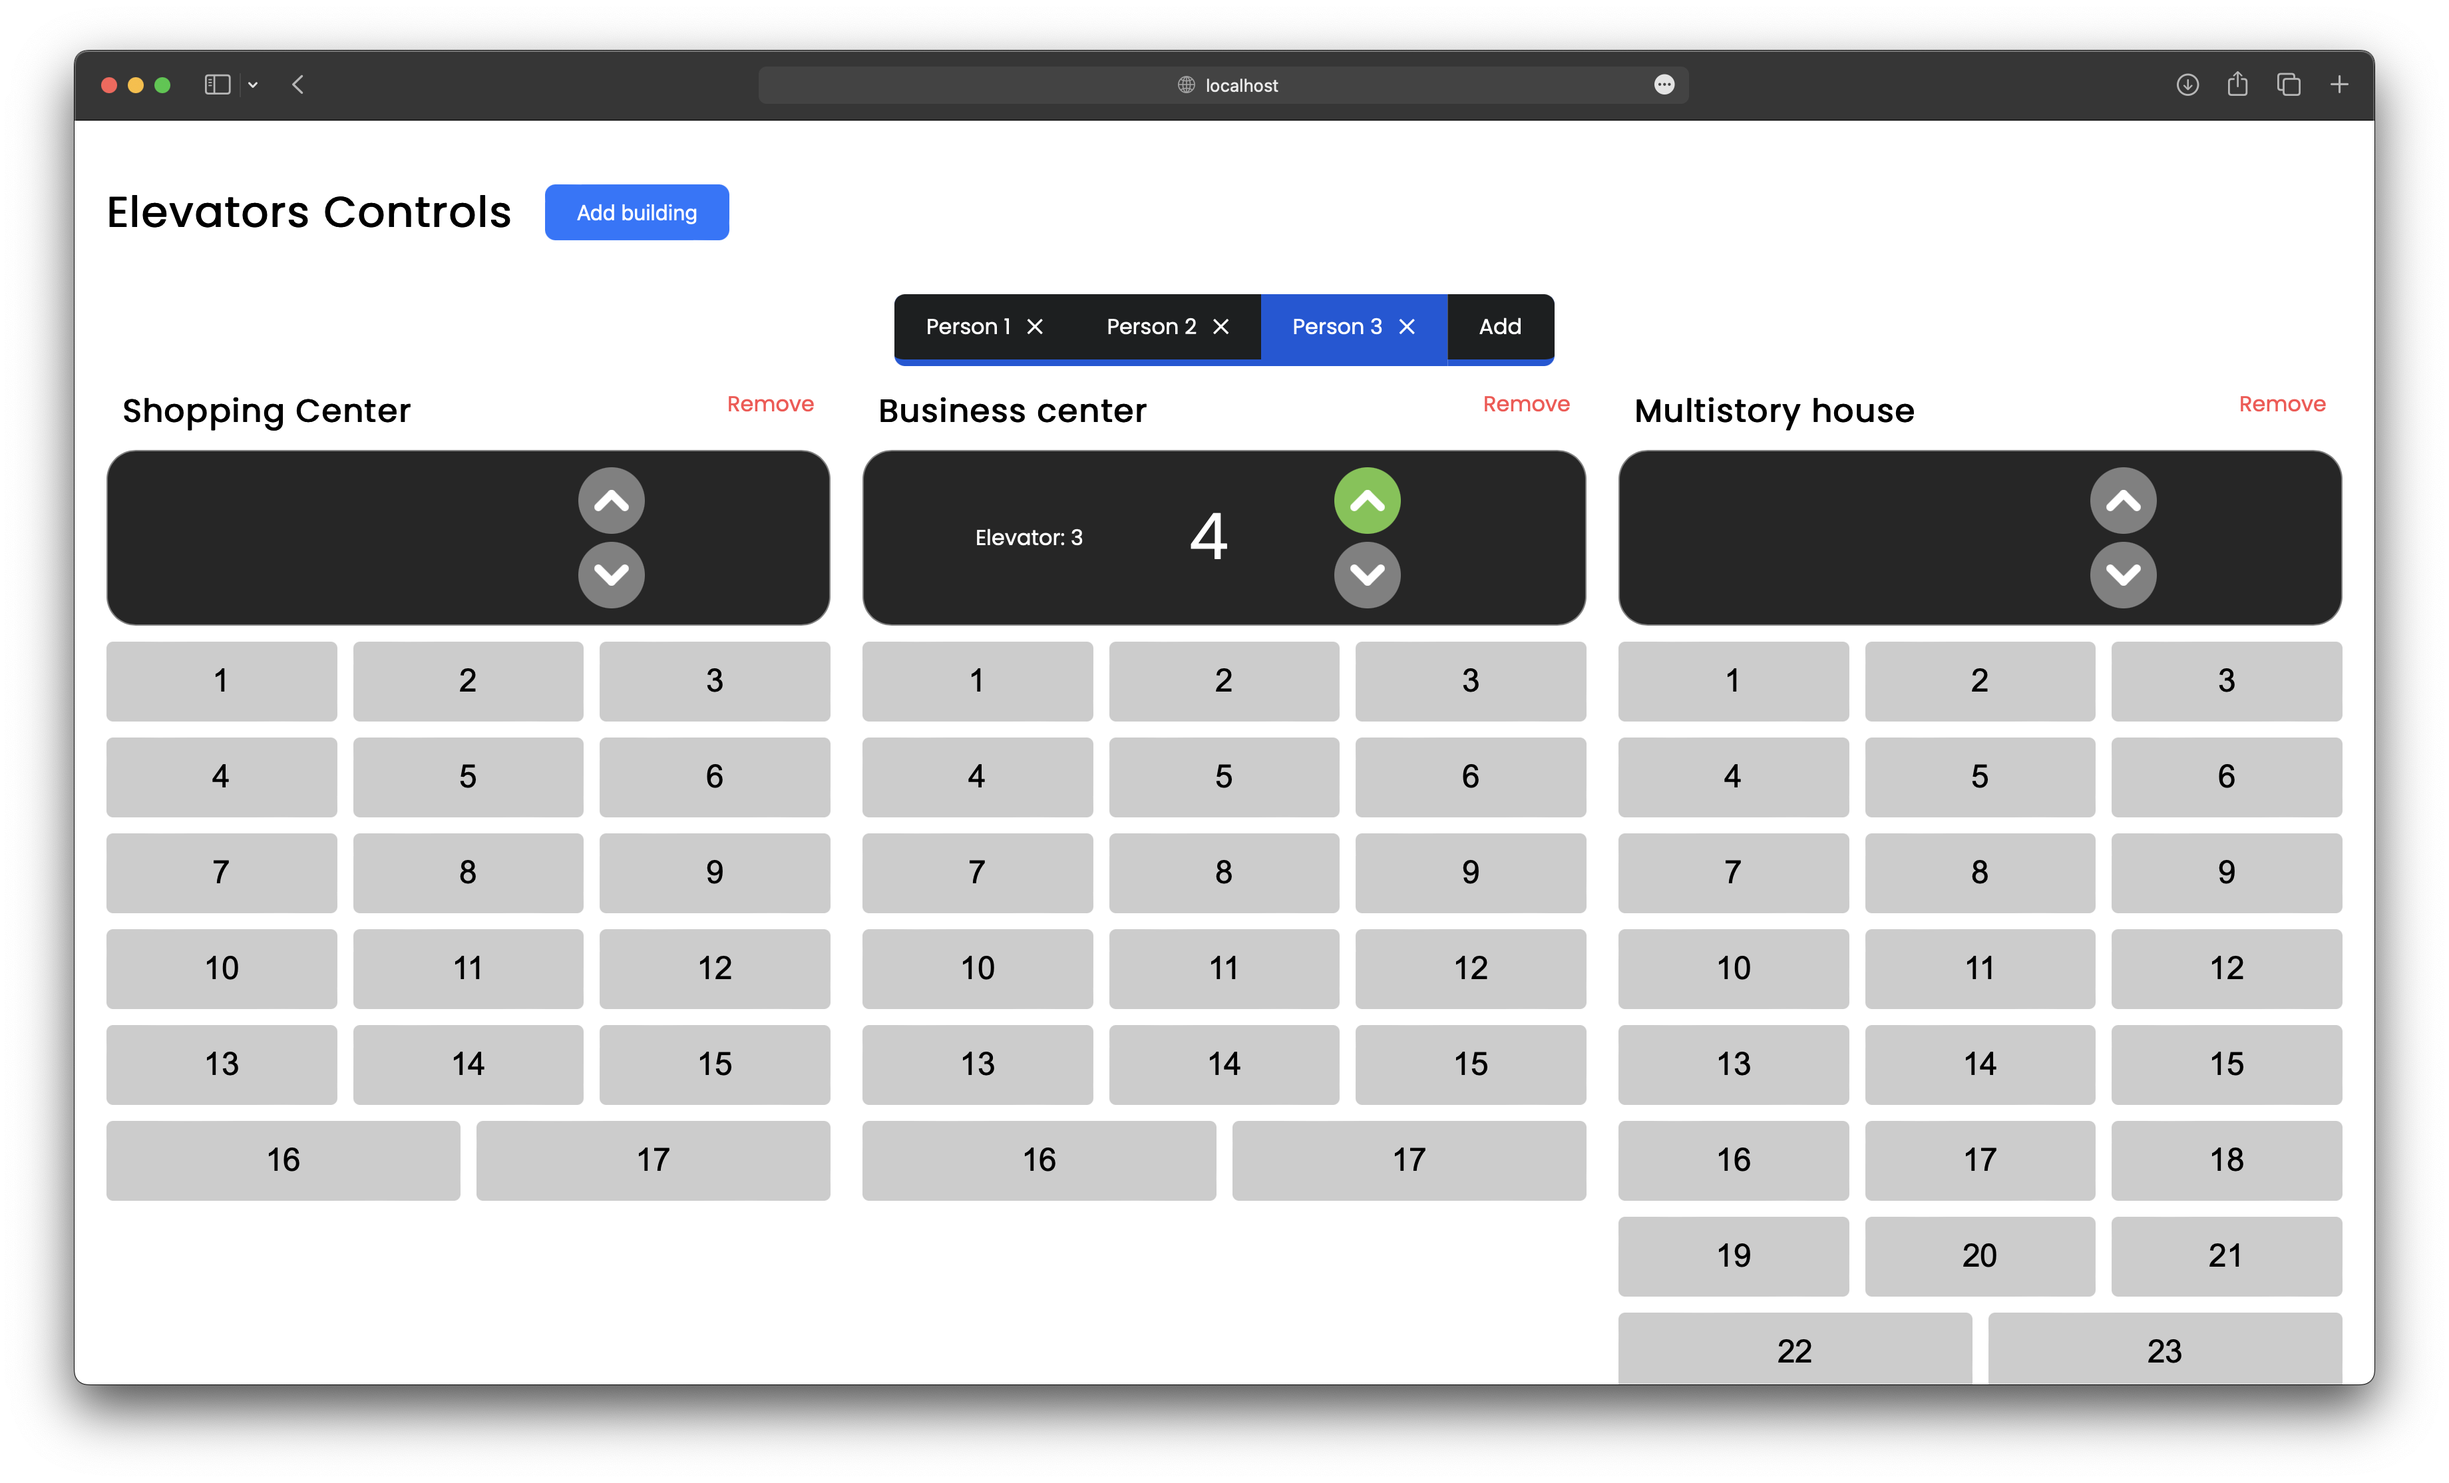
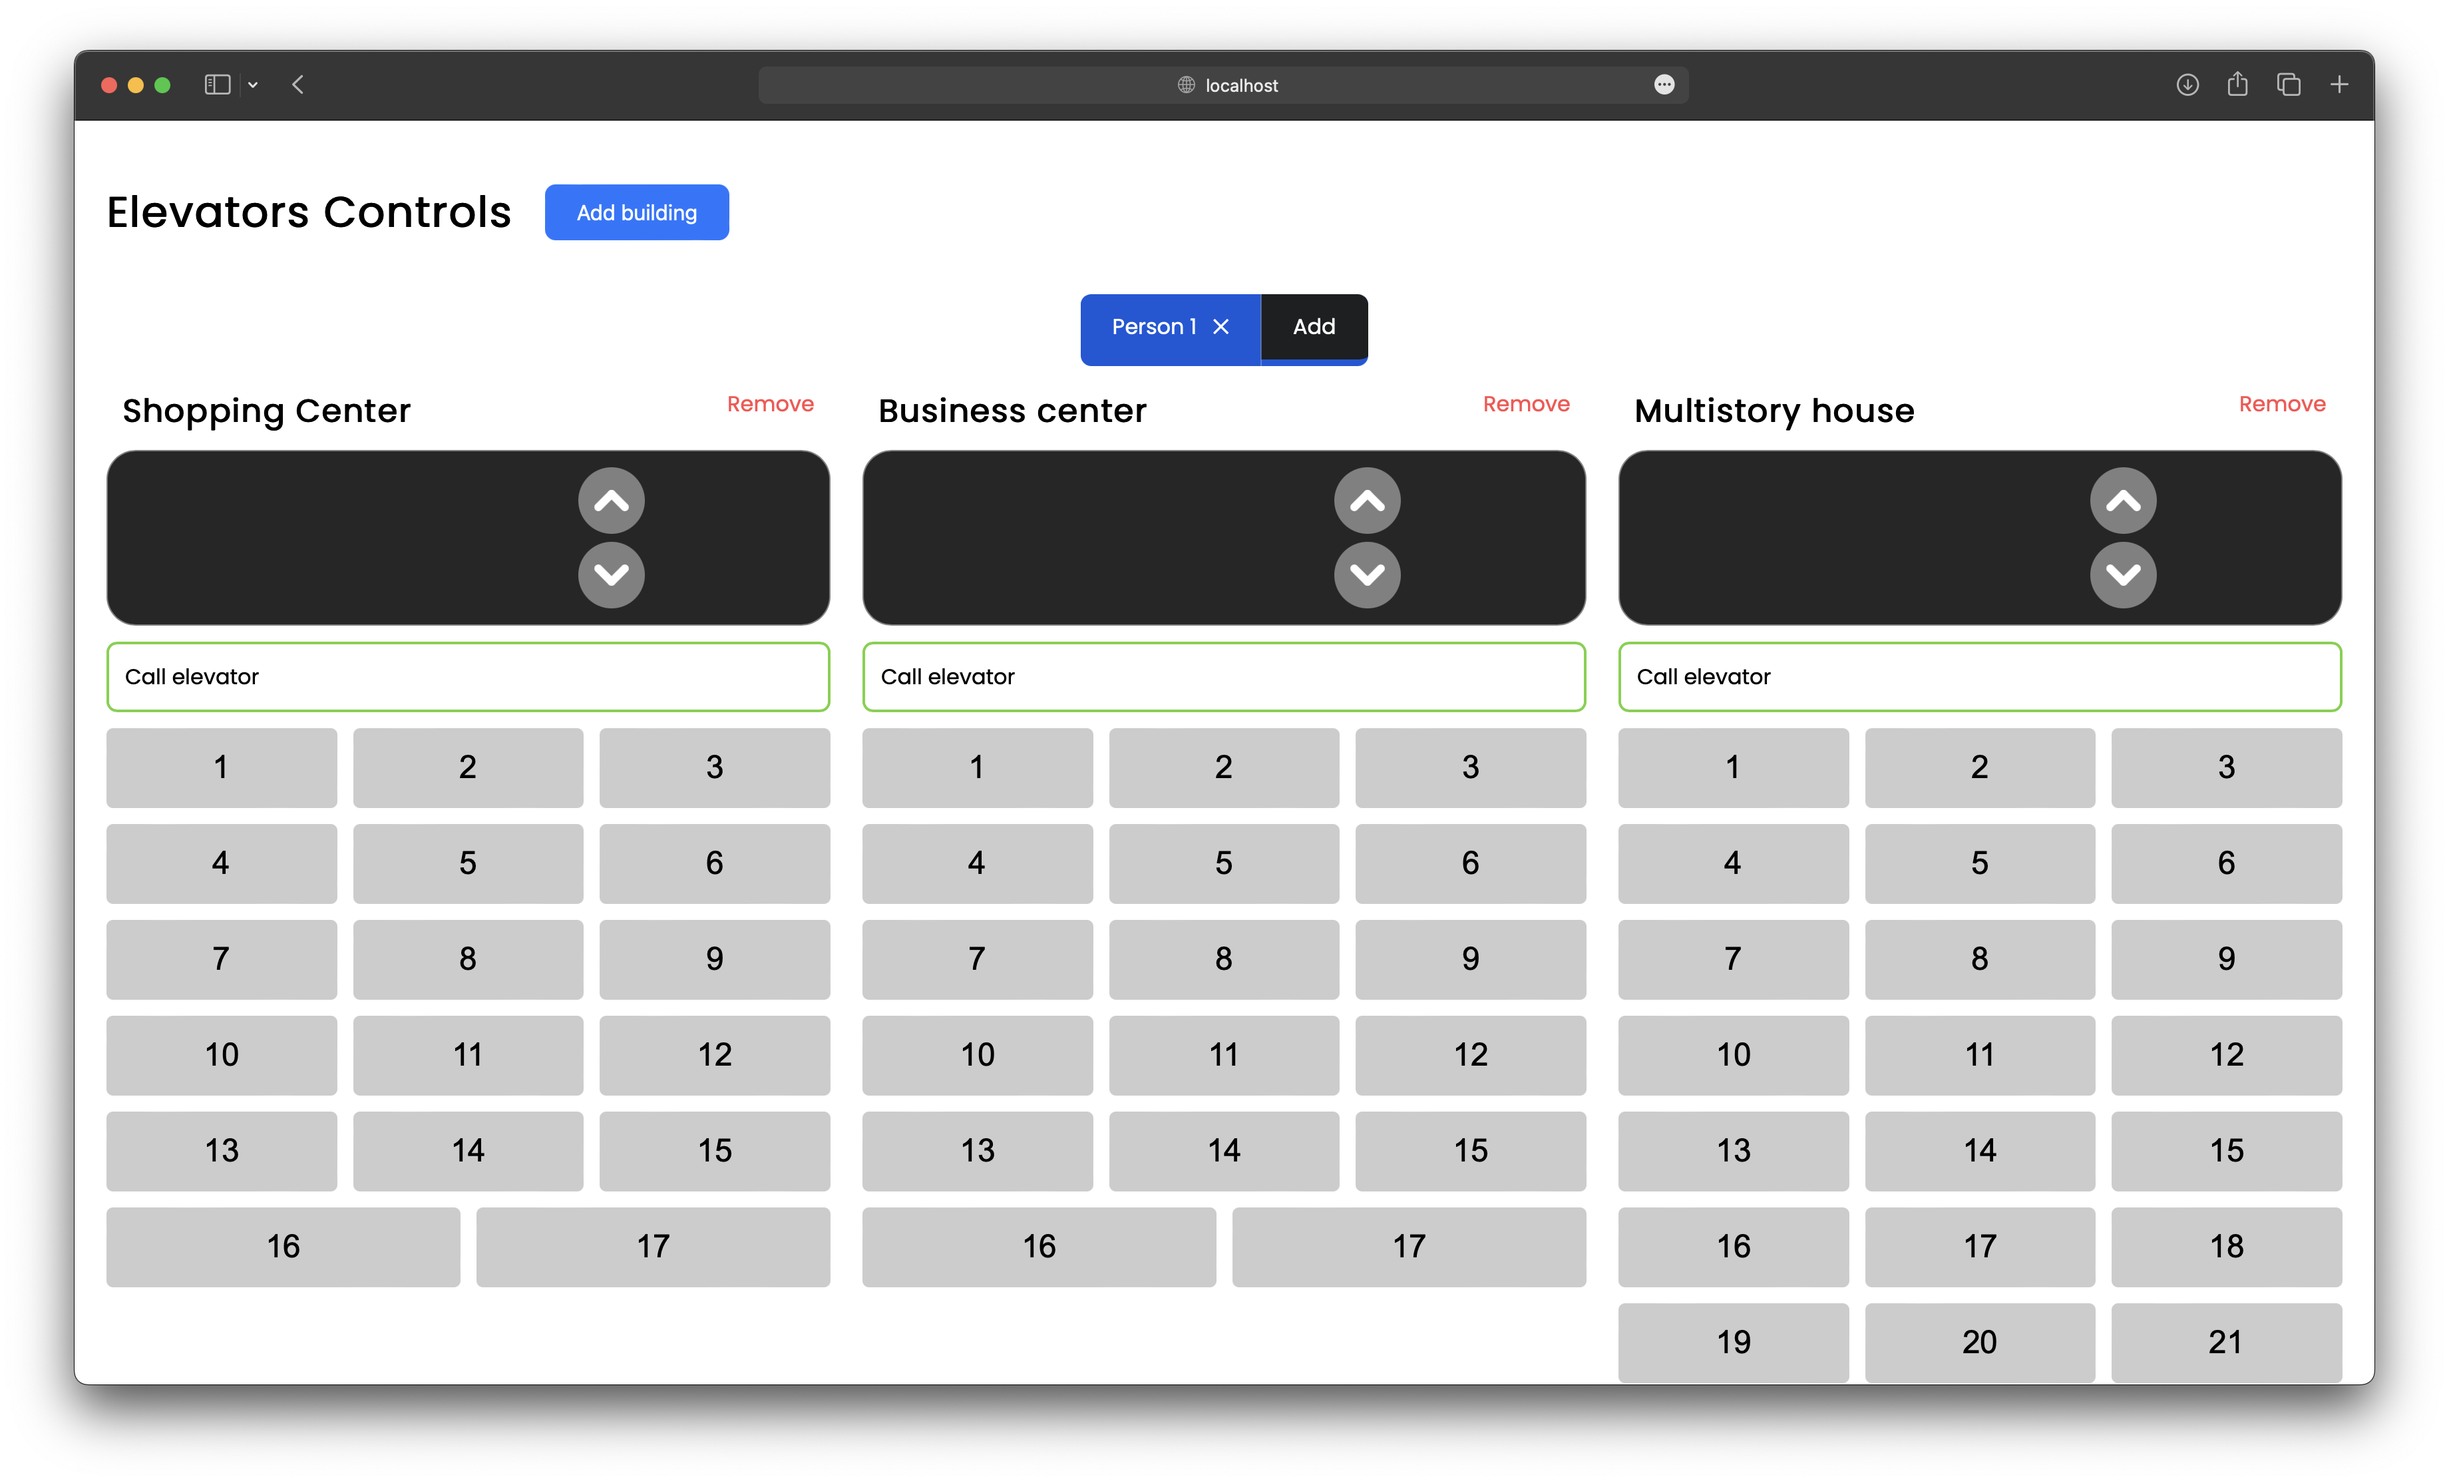
Added elevator status

diff --git a/src/store/elevatorControllSaga.ts b/src/store/elevatorControllSaga.ts
@@ -7,7 +7,7 @@ import { updatePersonWaitingStatus } from "./personSlice";
 import { getTotalFloorsCount } from "../helpers";
 
 interface ElevatorQueue {
-    [elevatorId: string]: number[];
+    [elevatorId: string]: { targetFloor: number; personId: number }[];
 }
 
 const elevatorQueues: ElevatorQueue = {};
@@ -16,8 +16,8 @@ const findClosestElevator = (elevators: Elevator[]): Elevator | null =>
     elevators.reduce<Elevator | null>((acc, el) => {
         if (!acc) return el;
 
-        const prevQueue = elevatorQueues[acc.id];
-        const newQueue = elevatorQueues[el.id];
+        const prevQueue = elevatorQueues[acc.id]?.map((el) => el.targetFloor);
+        const newQueue = elevatorQueues[el.id]?.map((el) => el.targetFloor);
 
         if (!prevQueue) return acc;
         if (!newQueue) return el;
@@ -25,33 +25,47 @@ const findClosestElevator = (elevators: Elevator[]): Elevator | null =>
         return getTotalFloorsCount(prevQueue) < getTotalFloorsCount(newQueue) ? acc : el;
     }, null);
 
-function* updateElevatorSaga(elevator: Elevator, newTargetFloor?: number): Generator<unknown, void, unknown> {
+function* updateElevatorSaga(
+    elevator: Elevator,
+    personId: number,
+    newTargetFloor?: number
+): Generator<unknown, void, unknown> {
     const queue = elevatorQueues[elevator.id] || [];
 
     if (newTargetFloor) {
-        queue.push(newTargetFloor);
+        queue.push({ targetFloor: newTargetFloor, personId });
         elevatorQueues[elevator.id] = queue;
     }
 
     if (queue.length === 0) return;
 
-    const currentTargetFloor = queue[0];
+    const currentElevatorStatus = queue[0];
 
-    if (currentTargetFloor === elevator.currentFloor) {
+    if (currentElevatorStatus.targetFloor === elevator.currentFloor) {
         queue.shift();
         elevatorQueues[elevator.id] = queue;
         yield put(updateElevatorInfo({ ...elevator, movingStatus: "idle" }));
+
+        yield put(
+            updatePersonWaitingStatus({
+                id: personId,
+                targetFloor: currentElevatorStatus.targetFloor,
+                elevatorId: elevator.id,
+                waitingStatus: "arrived"
+            })
+        );
+
         return;
     }
 
-    const isMovingUp = elevator.currentFloor < currentTargetFloor;
+    const isMovingUp = elevator.currentFloor < currentElevatorStatus.targetFloor;
 
     const newCurrentFloor = isMovingUp ? elevator.currentFloor + 1 : elevator.currentFloor - 1;
 
     const updatedElevatorData: Elevator = {
         ...elevator,
         currentFloor: newCurrentFloor,
-        targetFloor: currentTargetFloor,
+        targetFloor: currentElevatorStatus.targetFloor,
         movingStatus: isMovingUp ? "up" : "down"
     };
 
@@ -59,7 +73,7 @@ function* updateElevatorSaga(elevator: Elevator, newTargetFloor?: number): Gener
 
     yield put(updateElevatorInfo(updatedElevatorData));
 
-    yield* updateElevatorSaga(updatedElevatorData);
+    yield* updateElevatorSaga(updatedElevatorData, personId);
 }
 
 export function* watchElevatorControllSaga() {
@@ -69,6 +83,7 @@ export function* watchElevatorControllSaga() {
         const allElevators: Elevator[] = yield select((state: RootState) =>
             selectElevatorsByBuildingId(state, buildingId)
         );
+
         const elevator = findClosestElevator(allElevators);
 
         if (!elevator) {
@@ -76,7 +91,15 @@ export function* watchElevatorControllSaga() {
             return;
         }
 
-        yield put(updatePersonWaitingStatus({ id: personId, targetFloor: newTargetFloor, elevatorId: elevator.id }));
-        yield spawn(updateElevatorSaga, elevator, newTargetFloor);
+        yield put(
+            updatePersonWaitingStatus({
+                id: personId,
+                targetFloor: newTargetFloor,
+                elevatorId: elevator.id,
+                waitingStatus: "waiting"
+            })
+        );
+
+        yield spawn(updateElevatorSaga, elevator, personId, newTargetFloor);
     });
 }

diff --git a/src/components/BuildingCard.tsx b/src/components/BuildingCard.tsx
@@ -20,14 +20,29 @@ export const BuildingCard: React.FC<BuildingCardProps> = ({ building, onClickFlo
                     Remove
                 </span>
             </Title>
+
             <ElevatorStatusPanel
                 elevatorId={building.elevator?.id}
                 movingDirection={building.elevator?.movingStatus}
                 currentFloor={building.elevator?.currentFloor}
             />
+
+            <PersonStatus isMoving={building.personStatus === "waiting" ? "true" : "false"}>
+                {building.personStatus
+                    ? building.personStatus === "waiting"
+                        ? "Your lift is on the way"
+                        : "Your elevator has arrived"
+                    : "Call elevator"}
+            </PersonStatus>
+
             <BuildingStyled>
                 {floors.map((floor) => (
-                    <Floor key={floor} floorNumber={floor} onFloorClick={() => onClickFloor(floor)} />
+                    <Floor
+                        key={floor}
+                        disabled={building.personStatus === "waiting"}
+                        floorNumber={floor}
+                        onFloorClick={() => onClickFloor(floor)}
+                    />
                 ))}
             </BuildingStyled>
         </BuildingWrapper>
@@ -50,6 +65,12 @@ const Title = styled.div`
         font-size: ${({ theme }) => theme.fontSize.fontSizeLG};
         margin: 0;
     }
+`;
+
+const PersonStatus = styled.div<{ isMoving: "true" | "false" }>`
+    border: 2px solid ${({ isMoving, theme }) => (isMoving === "true" ? theme.colors.primary : theme.colors.success)};
+    border-radius: ${({ theme }) => theme.borderRadius.small};
+    padding: ${({ theme }) => theme.paddings.small};
 `;
 
 const BuildingWrapper = styled.div`

diff --git a/src/components/ElevatorStatusPanel.tsx b/src/components/ElevatorStatusPanel.tsx
@@ -8,21 +8,26 @@ interface ElevatorStatusPanelProps {
     movingDirection?: ElevatorMovingStatus;
     currentFloor?: number;
     elevatorId?: number;
+    personElevatorStatus?: string;
 }
 
 export const ElevatorStatusPanel: React.FC<ElevatorStatusPanelProps> = ({
     movingDirection,
     currentFloor,
-    elevatorId
+    elevatorId,
+    personElevatorStatus
 }) => (
-    <ElevatorStatusPanelWrapper>
-        {elevatorId && <Text>Elevator: {elevatorId}</Text>}
-        <CurrentFloor>{currentFloor}</CurrentFloor>
-        <ArrowWrapper>
-            <Arrow direction="up" isActive={movingDirection === "up"} />
-            <Arrow direction="down" isActive={movingDirection === "down"} />
-        </ArrowWrapper>
-    </ElevatorStatusPanelWrapper>
+    <div>
+        <ElevatorStatusPanelWrapper>
+            {elevatorId && <Text>Elevator: {elevatorId}</Text>}
+            <CurrentFloor>{currentFloor}</CurrentFloor>
+            <ArrowWrapper>
+                <Arrow direction="up" isActive={movingDirection === "up"} />
+                <Arrow direction="down" isActive={movingDirection === "down"} />
+            </ArrowWrapper>
+        </ElevatorStatusPanelWrapper>
+        <div>{personElevatorStatus ?? ""}</div>
+    </div>
 );
 
 const Text = styled.p`

diff --git a/src/store/personSlice.ts b/src/store/personSlice.ts
@@ -1,7 +1,7 @@
 import { createSlice, PayloadAction } from "@reduxjs/toolkit";
 
 import { RootState } from "../app-state";
-import { Person } from "../services";
+import { Person, PersonElevatorStatus } from "../services";
 
 const createPerson = (id: number) => ({ id, waitingForElevator: null });
 
@@ -25,12 +25,19 @@ export const personSlice = createSlice({
         },
         updatePersonWaitingStatus: (
             state,
-            action: PayloadAction<{ id: number; elevatorId: number; targetFloor: number }>
+            action: PayloadAction<{
+                id: number;
+                elevatorId: number;
+                targetFloor: number;
+                waitingStatus: PersonElevatorStatus;
+            }>
         ) => {
-            const { id, elevatorId, targetFloor } = action.payload;
+            const { id, elevatorId, targetFloor, waitingStatus } = action.payload;
 
             state.all = state.all.map((person) =>
-                person.id !== id ? person : { ...person, waitingForElevator: { elevatorId, targetFloor } }
+                person.id !== id
+                    ? person
+                    : { ...person, waitingForElevator: { elevatorId, targetFloor, waitingStatus } }
             );
 
             return state;

diff --git a/src/components/Floor.tsx b/src/components/Floor.tsx
@@ -4,10 +4,13 @@ import styled from "@emotion/styled";
 interface FloorProps {
     floorNumber: number;
     onFloorClick: () => void;
+    disabled: boolean;
 }
 
-export const Floor: React.FC<FloorProps> = ({ floorNumber, onFloorClick }) => (
-    <FloorButton onClick={onFloorClick}>{floorNumber}</FloorButton>
+export const Floor: React.FC<FloorProps> = ({ floorNumber, disabled, onFloorClick }) => (
+    <FloorButton disabled={disabled} onClick={onFloorClick}>
+        {floorNumber}
+    </FloorButton>
 );
 
 const FloorButton = styled.button`
@@ -31,5 +34,10 @@ const FloorButton = styled.button`
 
     &:active {
         background-color: #999;
+    }
+
+    &:disabled {
+        cursor: not-allowed;
+        background-color: #aaa;
     }
 `;

diff --git a/src/components/PersonBuildingList.tsx b/src/components/PersonBuildingList.tsx
@@ -2,10 +2,11 @@ import React from "react";
 import styled from "@emotion/styled";
 
 import { BuildingCard } from ".";
-import { Building, Elevator } from "../services";
+import { Building, Elevator, PersonElevatorStatus } from "../services";
 
 export interface BuildingPersonElevatorStatus extends Omit<Building, "elevators"> {
     elevator?: Elevator;
+    personStatus?: PersonElevatorStatus;
 }
 
 interface PersonBuildingListProps {

diff --git a/src/services/api.ts b/src/services/api.ts
@@ -15,7 +15,13 @@ export interface Elevator {
     targetFloor: number | null;
 }
 
+export type PersonElevatorStatus = "arrived" | "waiting";
+
 export interface Person {
     id: number;
-    waitingForElevator: { targetFloor: number; elevatorId: number } | null;
+    waitingForElevator: {
+        targetFloor: number;
+        elevatorId: number;
+        waitingStatus: PersonElevatorStatus;
+    } | null;
 }

diff --git a/src/containers/PersonBuildingListContainer.tsx b/src/containers/PersonBuildingListContainer.tsx
@@ -20,7 +20,7 @@ export const PersonBuildingListContainer: React.FC = () => {
         );
 
         if (elevator) {
-            return { ...baseInfo, elevator };
+            return { ...baseInfo, elevator, personStatus: currentPerson?.waitingForElevator?.waitingStatus };
         }
 
         return baseInfo;
